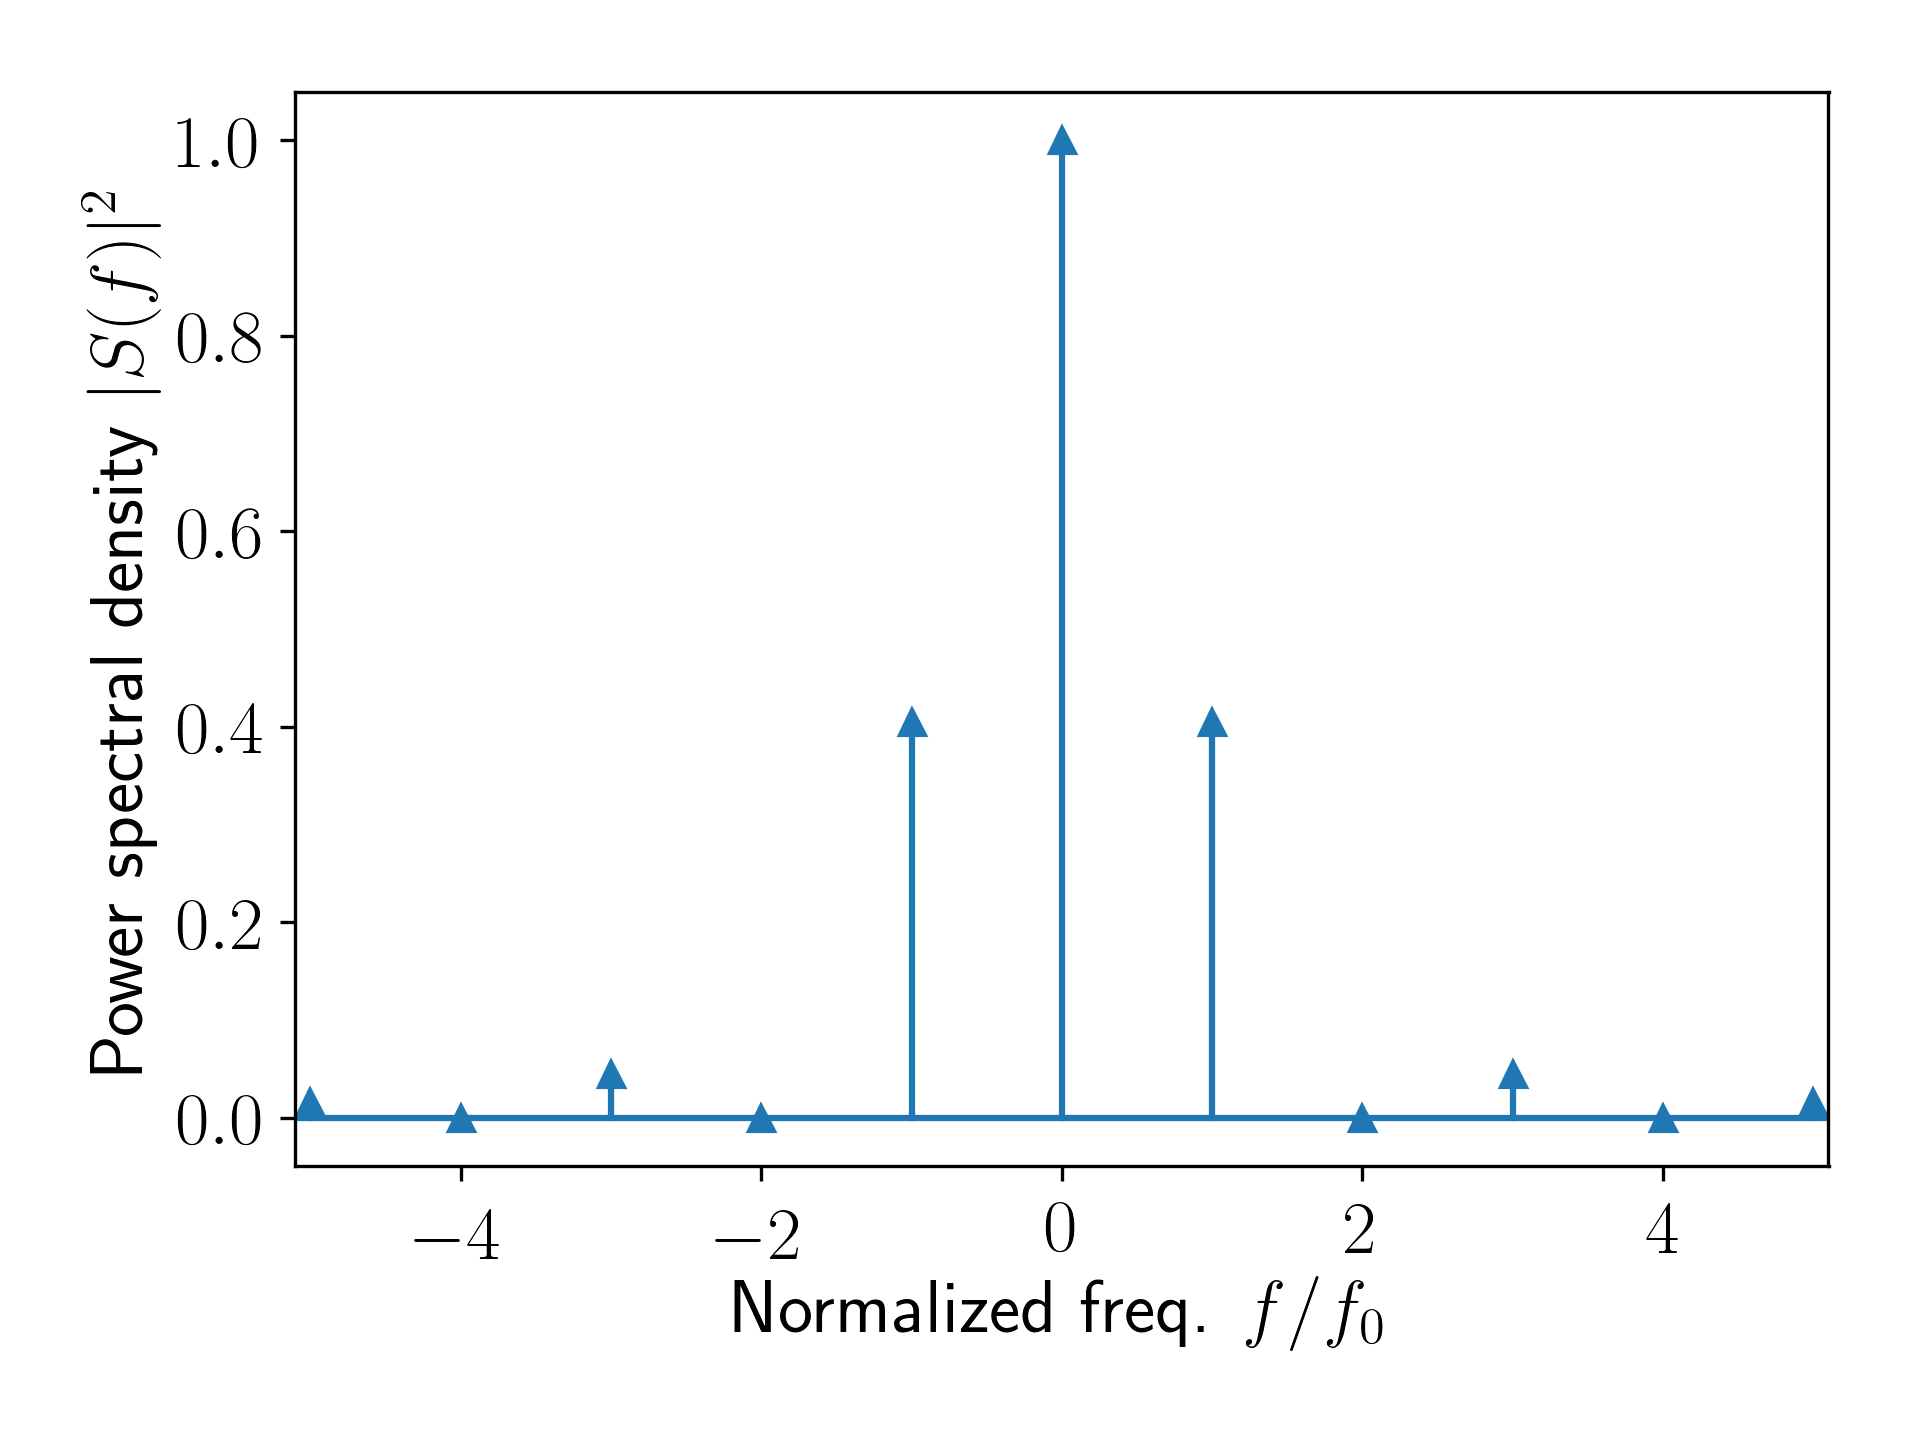
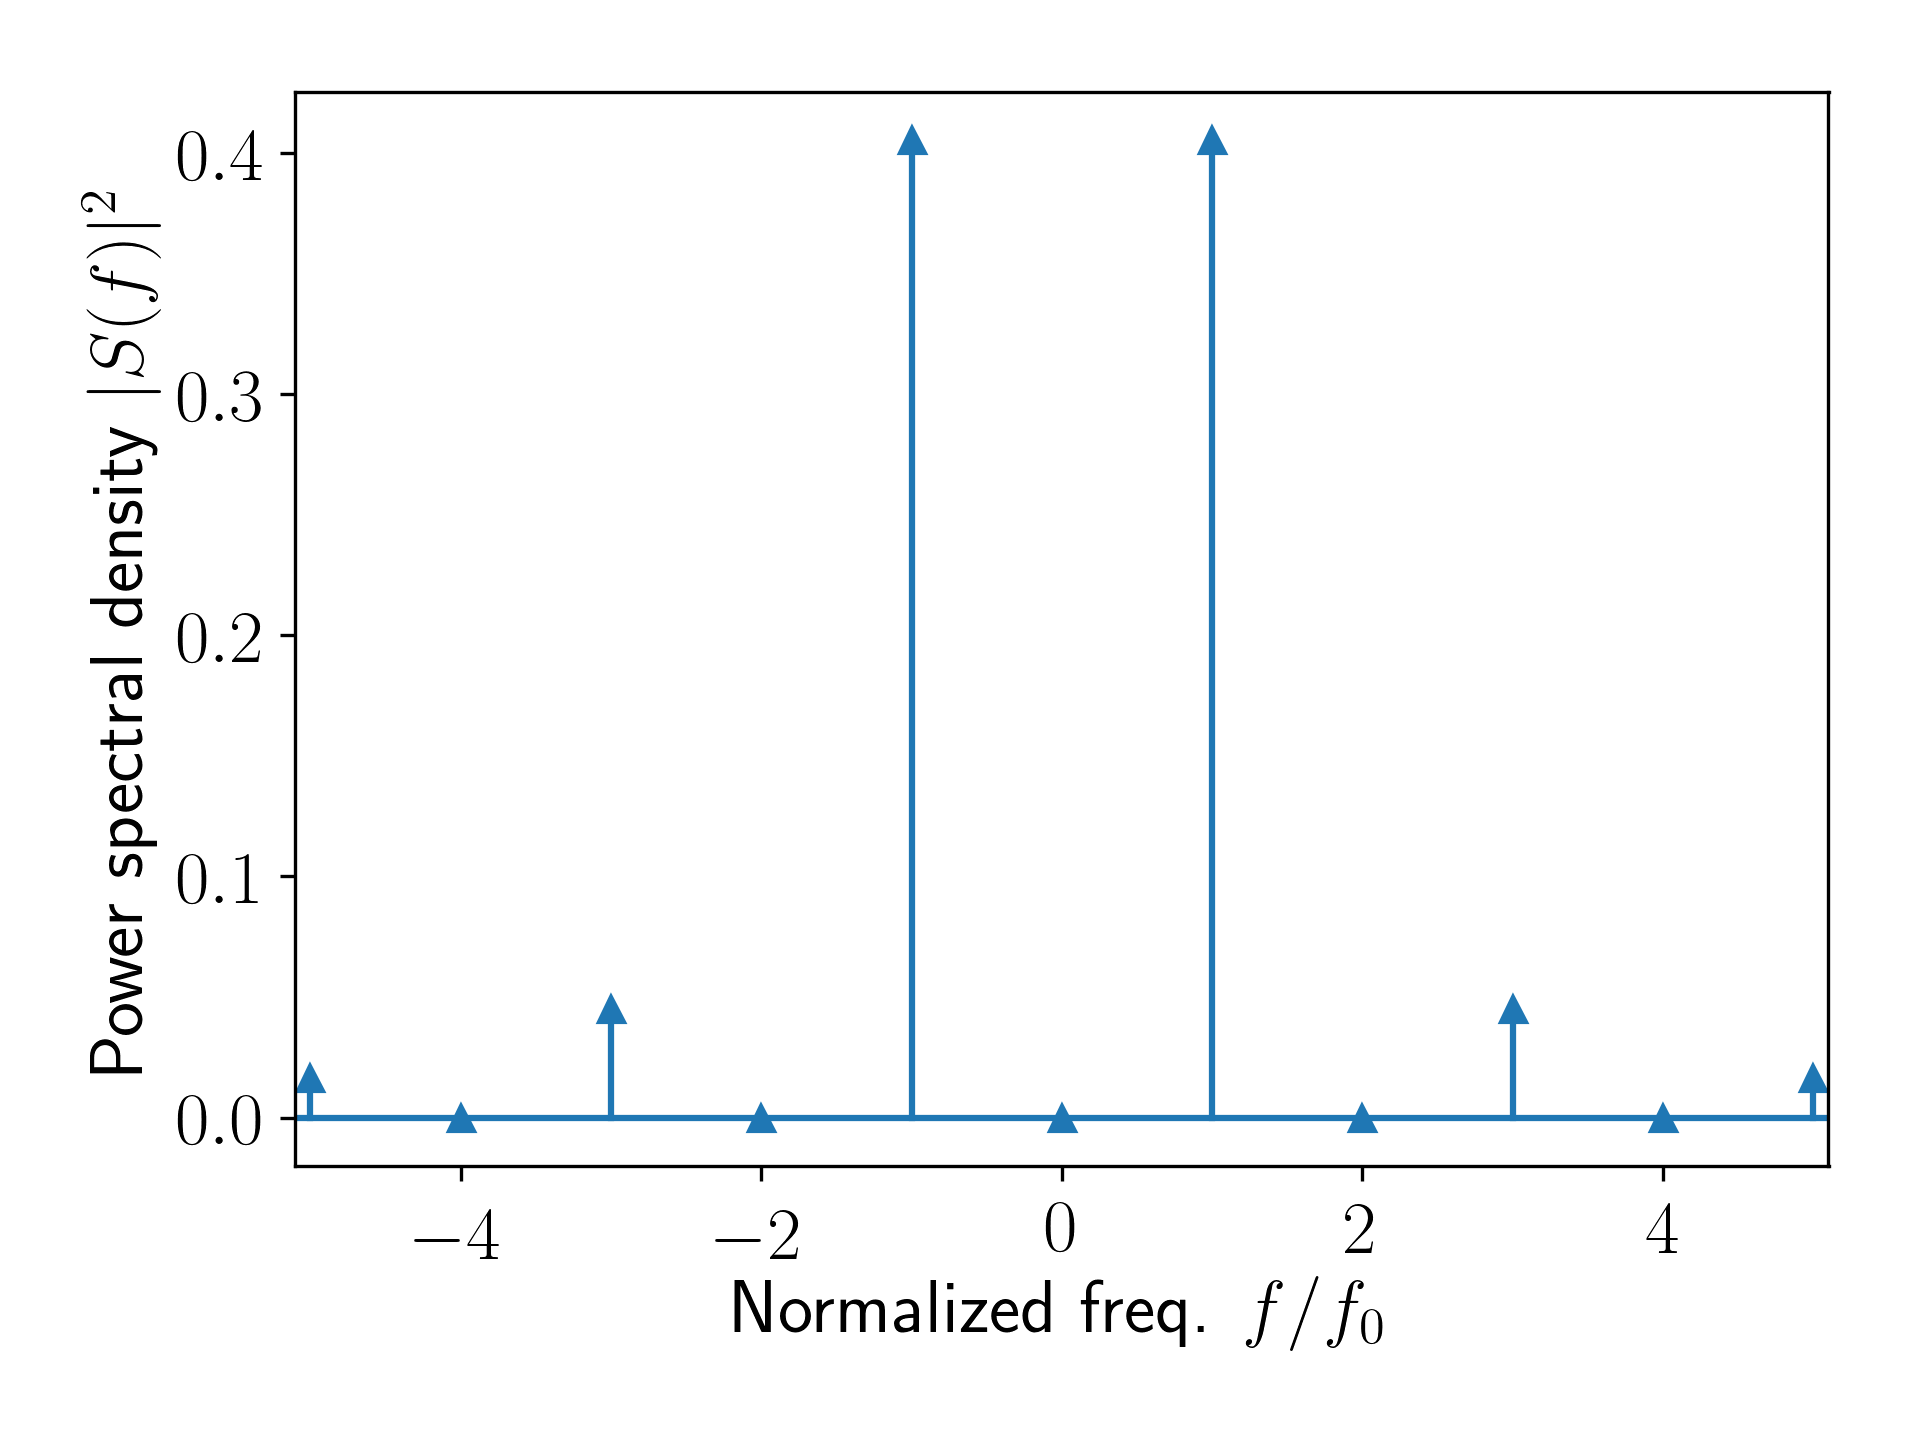
記事の誤りを修正

diff --git a/_posts/2018-08-11-FT-with-nonlinearity.md b/_posts/2018-08-11-FT-with-nonlinearity.md
@@ -226,7 +226,7 @@ $$
 このチェビシェフ多項式を用いて$$g(\cos(2\pi f_0 t))$$のスペクトルは次のように記述できます．
 
 $$
-\mathcal{F}[g(\cos(2\pi f_0 t))] = \frac{a_0}{2} \delta(f) + \sum_{n=0}^{\infty} a_n \left(\delta(f-n) + \delta(f+n) \right)
+\mathcal{F}[g(\cos(2\pi f_0 t))] = \frac{a_0}{2} \delta(f) + \sum_{n=0}^{\infty} \frac{a_n}{2} \left(\delta(f-nf_0) + \delta(f+nf_0) \right)
 $$
 
 $$
